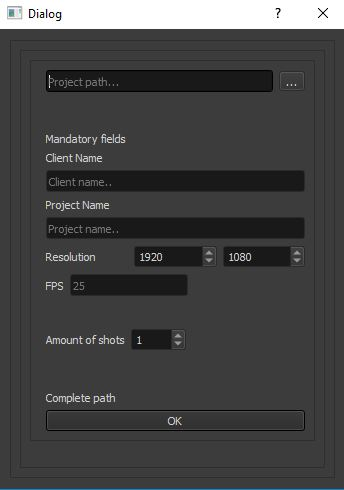
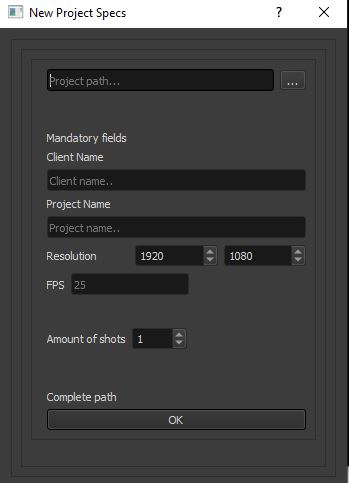
changed the title of the new project dialog

diff --git a/python/ui/_pipe_new_project.py b/python/ui/_pipe_new_project.py
@@ -128,7 +128,7 @@ class Ui_ui_new_project_dialog(QtWidgets.QDialog):
         QtCore.QMetaObject.connectSlotsByName(ui_new_project_dialog)
 
     def retranslateUi(self, ui_new_project_dialog):
-        ui_new_project_dialog.setWindowTitle(QtWidgets.QApplication.translate("ui_new_project_dialog", "Dialog", None, -1))
+        ui_new_project_dialog.setWindowTitle(QtWidgets.QApplication.translate("ui_new_project_dialog", "New Project Specs", None, -1))
         self.le_projectPath_2.setPlaceholderText(QtWidgets.QApplication.translate("ui_new_project_dialog", "Project path...", None, -1))
         self.btn_folder_lookup_2.setText(QtWidgets.QApplication.translate("ui_new_project_dialog", "...", None, -1))
         self.label_7.setText(QtWidgets.QApplication.translate("ui_new_project_dialog", "Mandatory fields", None, -1))
